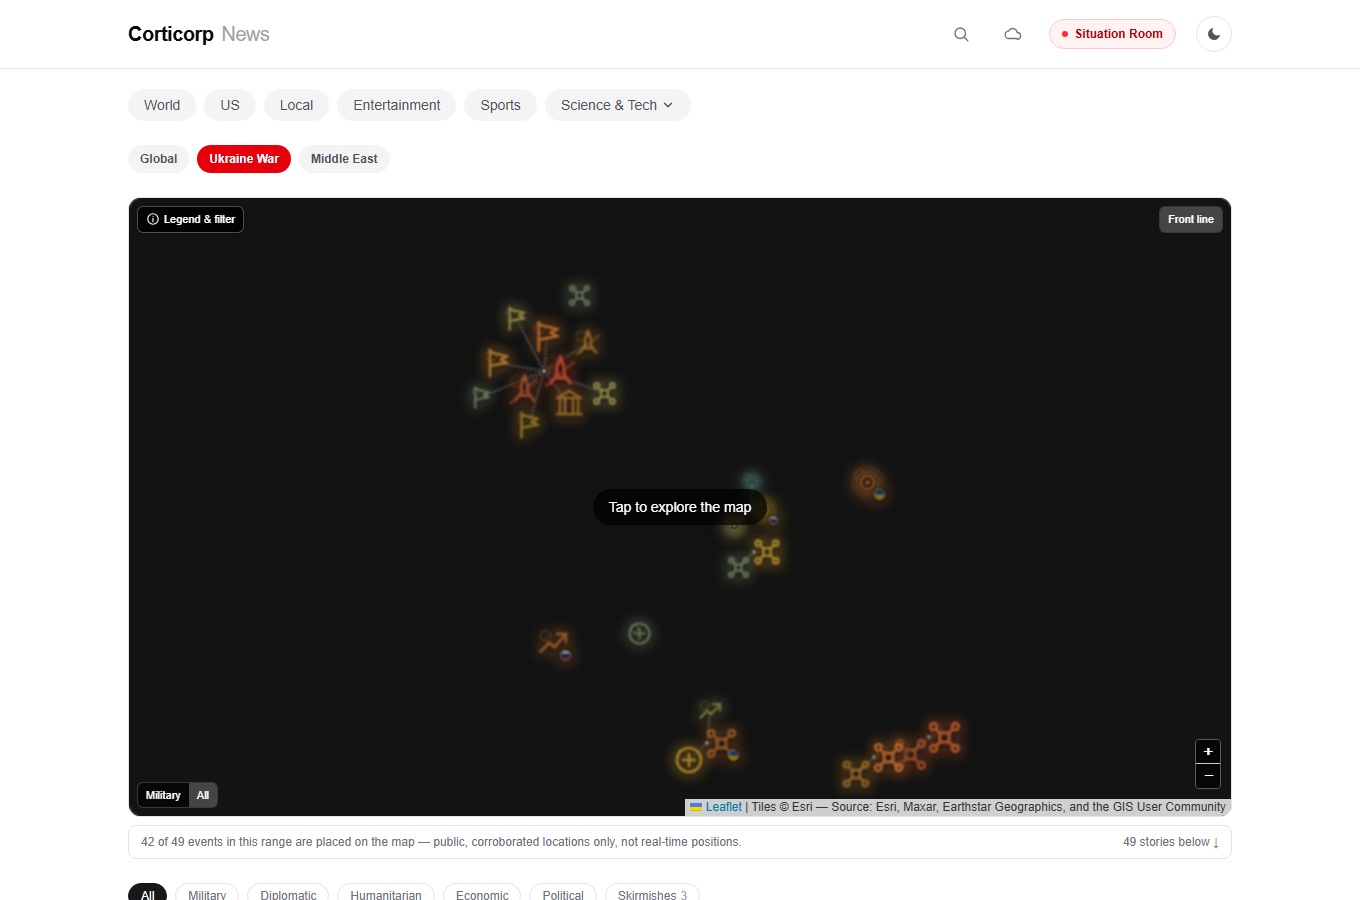
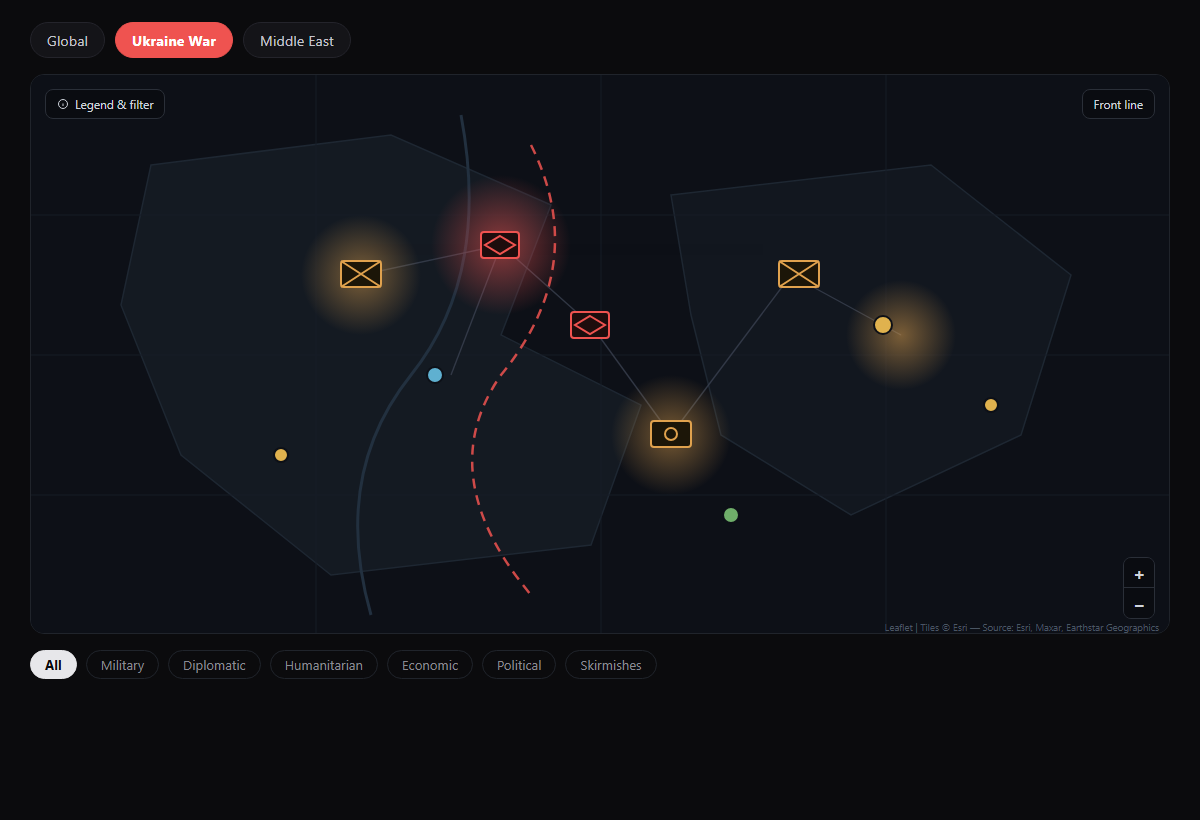
News: dark simulated screenshots; drop public analytics image
Replace the light app captures with dark, simulated mockups (feed, Situation
Room tactical map, deep-dive briefing) that match the site theme and contain
no real data. Remove the analytics screenshot entirely so internal traffic
data isn't shown on a public page.

diff --git a/projects/news/index.html b/projects/news/index.html
@@ -118,8 +118,8 @@
         <img src="img/situation.png" alt="Situation Room tactical map of the Russia-Ukraine war">
       </div>
       <div class="win win-analytics">
-        <div class="bar"><i class="r"></i><i class="y"></i><i class="g"></i><span>Analytics</span></div>
-        <img src="img/analytics.png" alt="Corticorp News analytics dashboard">
+        <div class="bar"><i class="r"></i><i class="y"></i><i class="g"></i><span>Deep Dive</span></div>
+        <img src="img/deepdive.png" alt="Corticorp News situation-room deep-dive briefing">
       </div>
       <div class="win win-feed">
         <div class="bar"><i class="r"></i><i class="y"></i><i class="g"></i><span>The Feed</span></div>
@@ -198,13 +198,13 @@
       </div>
       <div class="shotcard">
         <div class="win">
-          <div class="bar"><i class="r"></i><i class="y"></i><i class="g"></i><span>Analytics</span></div>
-          <img src="img/analytics.png" alt="Traffic analytics dashboard">
+          <div class="bar"><i class="r"></i><i class="y"></i><i class="g"></i><span>Deep Dive</span></div>
+          <img src="img/deepdive.png" alt="Situation-room deep-dive briefing">
         </div>
         <div class="cap">
-          <h3>Analytics</h3>
-          <p>Built-in traffic analytics — visits over time, top paths and locations, and a
-             bot-vs-human breakdown from the user-agent sample.</p>
+          <h3>Deep dives</h3>
+          <p>Ongoing theatres get a synthesized briefing — what happened, why it matters, and
+             what's next — compiled across many sources with no single outlet quoted verbatim.</p>
         </div>
       </div>
     </div>

diff --git a/index.html b/index.html
@@ -260,8 +260,8 @@
           <img src="projects/news/img/situation.png" alt="Situation Room tactical map of the Russia-Ukraine war">
         </div>
         <div class="win win-analytics">
-          <div class="bar"><i class="r"></i><i class="y"></i><i class="g"></i><span>Analytics</span></div>
-          <img src="projects/news/img/analytics.png" alt="Corticorp News analytics dashboard">
+          <div class="bar"><i class="r"></i><i class="y"></i><i class="g"></i><span>Deep Dive</span></div>
+          <img src="projects/news/img/deepdive.png" alt="Corticorp News situation-room deep-dive briefing">
         </div>
         <div class="win win-feed">
           <div class="bar"><i class="r"></i><i class="y"></i><i class="g"></i><span>The Feed</span></div>
